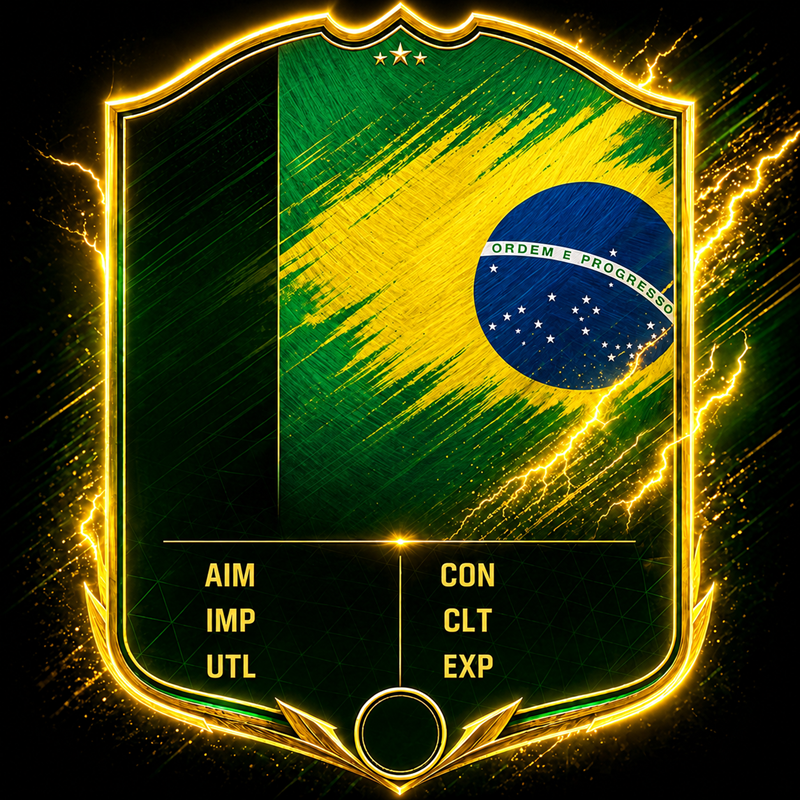
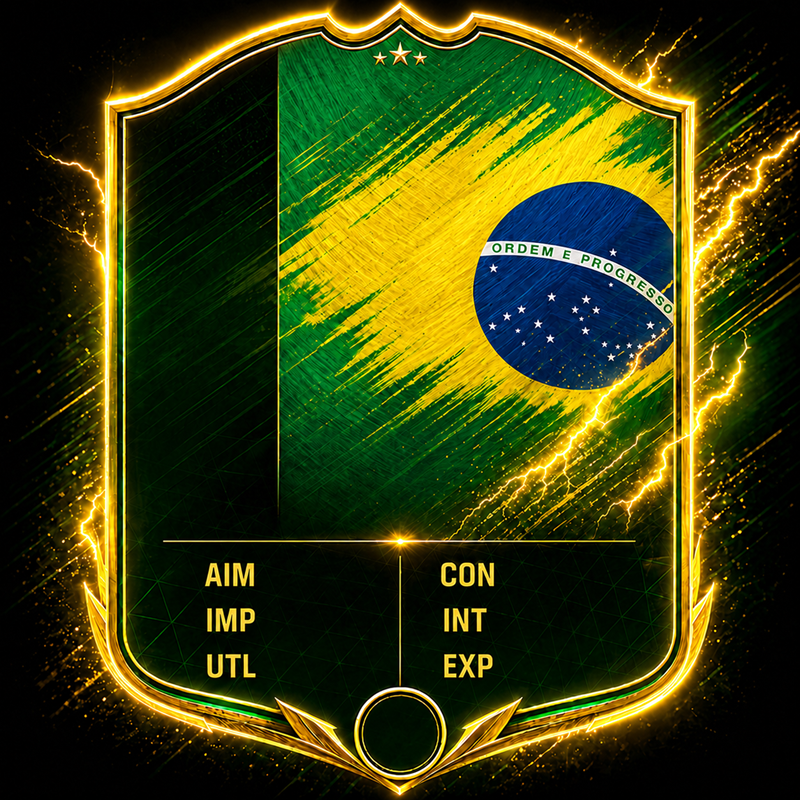
feat: round stats to integers, use native INT template, and display Portugal time updates

diff --git a/src/bot.py b/src/bot.py
@@ -138,7 +138,12 @@ class RankingView(discord.ui.View):
                     latest_update = up
                     
         if latest_update:
-            dt_str = latest_update.strftime("%d/%m/%Y às %H:%M UTC")
+            from zoneinfo import ZoneInfo
+            lisbon_tz = ZoneInfo("Europe/Lisbon")
+            if latest_update.tzinfo is None:
+                latest_update = latest_update.replace(tzinfo=timezone.utc)
+            calc_pt = latest_update.astimezone(lisbon_tz)
+            dt_str = calc_pt.strftime("%d/%m/%Y às %H:%M (Horário de Portugal)")
             embed.set_footer(text=f"Última atualização: {dt_str}")
 
         return embed
@@ -203,6 +208,15 @@ async def card(interaction: discord.Interaction, player: str) -> None:
         content_lines = [f"**BRz Card — {display_name}**"]
         if overall_brz is not None:
             content_lines.append(f"Overall BRz: **{overall_brz}**")
+
+        if calculated_at:
+            from zoneinfo import ZoneInfo
+            lisbon_tz = ZoneInfo("Europe/Lisbon")
+            if calculated_at.tzinfo is None:
+                calculated_at = calculated_at.replace(tzinfo=timezone.utc)
+            calc_pt = calculated_at.astimezone(lisbon_tz)
+            dt_str = calc_pt.strftime("%d/%m/%Y às %H:%M (Horário de Portugal)")
+            content_lines.append(f"Última atualização dos stats: {dt_str}")
 
         await interaction.followup.send(
             content="\n".join(content_lines),

diff --git a/src/cards/card_generator.py b/src/cards/card_generator.py
@@ -637,14 +637,14 @@ def _build_player_data(profile: dict, card_data: dict) -> dict:
         "name": profile.get("display_name") or "Unknown",
         "country_code": profile.get("country_code") or "PT",
         "faceit_level": faceit_level,
-        "overall": card_data.get("overall_brz") or 0,
+        "overall": _safe_int_from_score(card_data.get("overall_brz")),
         "role": card_data.get("role") or "RIFLER",
-        "aim": card_data.get("aim") or 0,
-        "imp": card_data.get("impact") or 0,
-        "utl": card_data.get("utility") or 0,
-        "con": card_data.get("consistency") or 0,
-        "int": card_data.get("intelligence") or card_data.get("clutch") or 0,
-        "exp": card_data.get("experience") or 0,
+        "aim": _safe_int_from_score(card_data.get("aim")),
+        "imp": _safe_int_from_score(card_data.get("impact")),
+        "utl": _safe_int_from_score(card_data.get("utility")),
+        "con": _safe_int_from_score(card_data.get("consistency")),
+        "int": _safe_int_from_score(card_data.get("intelligence") or card_data.get("clutch")),
+        "exp": _safe_int_from_score(card_data.get("experience")),
     }
 
 
